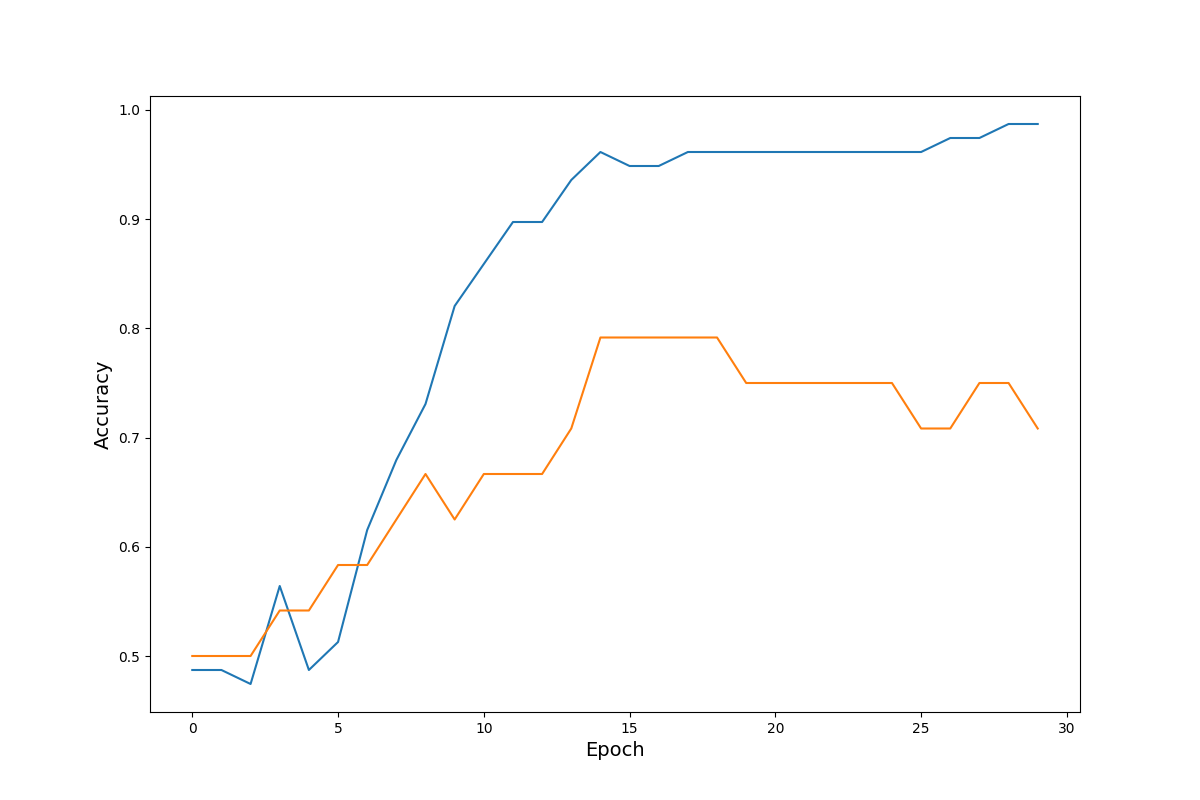
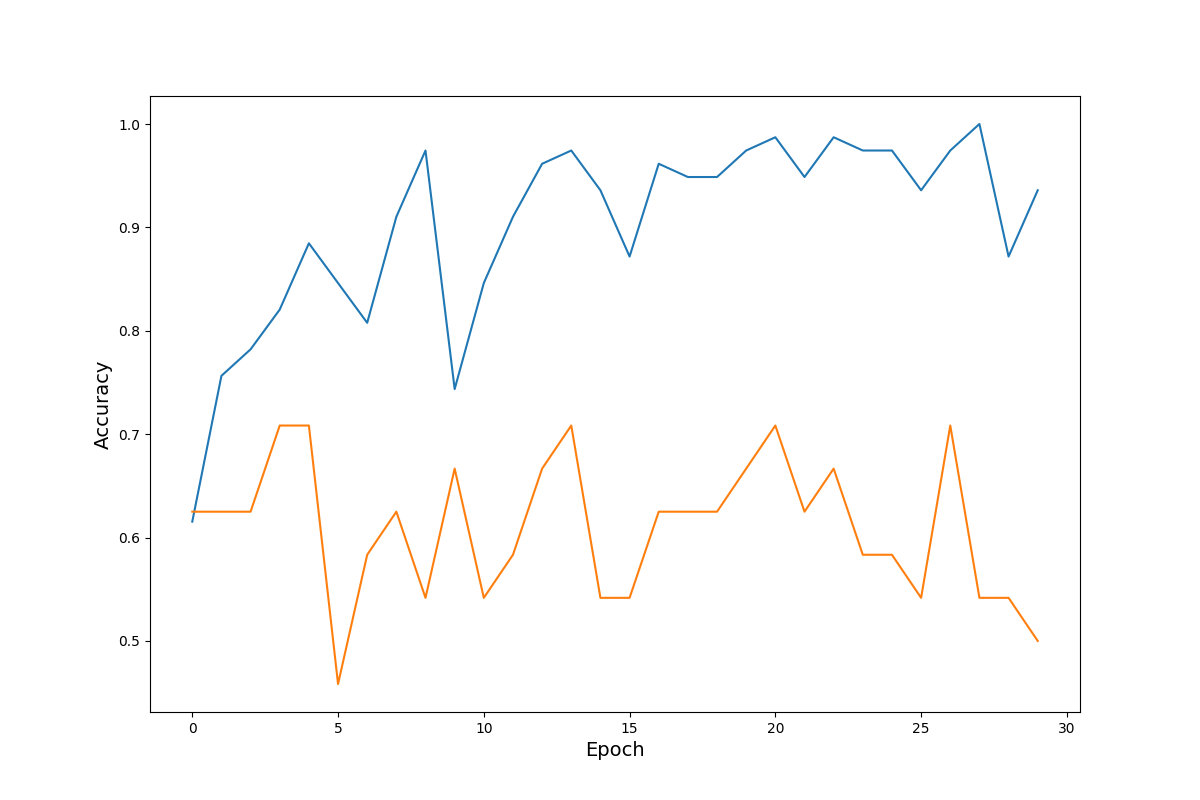
update

diff --git a/train.py b/train.py
@@ -310,33 +310,25 @@ def train_simple_comparison_model():
             if batch_sample == 0:
                 curr_batch_x_av45 = sample[1].numpy().reshape((2, SLICES, 128, 128, 1))[0].reshape((1, SLICES, 128, 128, 1))
                 curr_batch_x_fdg = sample[1].numpy().reshape((2, SLICES, 128, 128, 1))[1].reshape((1, SLICES, 128, 128, 1))
-                cn_data_av45 = cn_reference_av45
-                cn_data_fdg = cn_reference_fdg
-                ad_data_av45 = ad_reference_av45
-                ad_data_fdg = ad_reference_fdg
                 curr_batch_y = sample[0].numpy().reshape((1, 1))
                 batch_sample += 1
             elif batch_sample % BATCH_SIZE == 0:
                 print(curr_batch_y)
-                print(model.predict((ad_data_av45, ad_data_fdg, curr_batch_x_av45, curr_batch_x_fdg, cn_data_av45, cn_data_fdg))[6])
-                loss_value, grads = compute_simple_comparison_gradients(model, [ad_data_av45, ad_data_fdg, curr_batch_x_av45, curr_batch_x_fdg, cn_data_av45, cn_data_fdg], curr_batch_y, 0.3, 0.7)
+                print(model.predict((curr_batch_x_av45, curr_batch_x_fdg))[2])
+                loss_value, grads = compute_simple_comparison_gradients(model, [curr_batch_x_av45, curr_batch_x_fdg], curr_batch_y, 0.3, 0.7)
                 epoch_loss_avg.update_state(loss_value)
-                accuracy.update_state(curr_batch_y, model.predict((ad_data_av45, ad_data_fdg, curr_batch_x_av45, curr_batch_x_fdg, cn_data_av45, cn_data_fdg))[6])
+                accuracy.update_state(curr_batch_y, model.predict((curr_batch_x_av45, curr_batch_x_fdg))[2])
                 optimizer.apply_gradients(zip(grads, model.trainable_variables))
                 print("Accuracy: " + str(accuracy.result().numpy()))
                 batch_sample = 0
             else:
                 curr_batch_x_av45 = np.concatenate((curr_batch_x_av45, sample[1].numpy().reshape((2, SLICES, 128, 128, 1))[0].reshape((1, SLICES, 128, 128, 1))))
                 curr_batch_x_fdg = np.concatenate((curr_batch_x_fdg, sample[1].numpy().reshape((2, SLICES, 128, 128, 1))[1].reshape((1, SLICES, 128, 128, 1))))
-                ad_data_av45 = np.concatenate((ad_data_av45, (ad_reference_av45)))
-                ad_data_fdg = np.concatenate((ad_data_fdg, (ad_reference_fdg)))
-                cn_data_av45 = np.concatenate((cn_data_av45, (cn_reference_av45)))
-                cn_data_fdg = np.concatenate((cn_data_fdg, (cn_reference_fdg)))
                 curr_batch_y = np.concatenate((curr_batch_y, sample[0].numpy().reshape((1, 1))))
                 batch_sample += 1
             if saved == False:
                 save_image_input = sample[1].numpy().reshape((2, SLICES, 128, 128, 1))
-                plot3d(cn_data_av45[0], "3d/input.nii.gz")
+                plot3d(curr_batch_x_av45[0], "3d/input.nii.gz")
                 saved = True
         
         batch_sample = 0
@@ -347,7 +339,7 @@ def train_simple_comparison_model():
         correct_having = 0
         correct_not_having = 0
         for sample in tqdm(dataset_test):
-            curr_output = model.predict((ad_reference_av45, ad_reference_fdg, sample[1].numpy().reshape((2, SLICES, 128, 128, 1))[0].reshape((1, SLICES, 128, 128, 1)), sample[1].numpy().reshape((2, SLICES, 128, 128, 1))[1].reshape((1, SLICES, 128, 128, 1)), cn_reference_av45, cn_reference_fdg))[6][0][0]
+            curr_output = model.predict((sample[1].numpy().reshape((2, SLICES, 128, 128, 1))[0].reshape((1, SLICES, 128, 128, 1)), sample[1].numpy().reshape((2, SLICES, 128, 128, 1))[1].reshape((1, SLICES, 128, 128, 1))))[2][0][0]
             #Calculating sensitivity
             if curr_output > 0.5 and sample[0].numpy().reshape((1, 1))[0] == 1:
                 correct_having += 1
@@ -357,36 +349,24 @@ def train_simple_comparison_model():
             if batch_sample == 0:
                 curr_batch_x_av45 = sample[1].numpy().reshape((2, SLICES, 128, 128, 1))[0].reshape((1, SLICES, 128, 128, 1))
                 curr_batch_x_fdg = sample[1].numpy().reshape((2, SLICES, 128, 128, 1))[1].reshape((1, SLICES, 128, 128, 1))
-                cn_data_av45 = cn_reference_av45
-                cn_data_fdg = cn_reference_fdg
-                ad_data_av45 = ad_reference_av45
-                ad_data_fdg = ad_reference_fdg
                 curr_batch_y = sample[0].numpy().reshape((1, 1))
                 batch_sample += 1
             else:
                 curr_batch_x_av45 = np.concatenate((curr_batch_x_av45, sample[1].numpy().reshape((2, SLICES, 128, 128, 1))[0].reshape((1, SLICES, 128, 128, 1))))
                 curr_batch_x_fdg = np.concatenate((curr_batch_x_fdg, sample[1].numpy().reshape((2, SLICES, 128, 128, 1))[1].reshape((1, SLICES, 128, 128, 1))))
-                ad_data_av45 = np.concatenate((ad_data_av45, (ad_reference_av45)))
-                ad_data_fdg = np.concatenate((ad_data_fdg, (ad_reference_fdg)))
-                cn_data_av45 = np.concatenate((cn_data_av45, (cn_reference_av45)))
-                cn_data_fdg = np.concatenate((cn_data_fdg, (cn_reference_fdg)))
                 curr_batch_y = np.concatenate((curr_batch_y, sample[0].numpy().reshape((1, 1))))
                 batch_sample += 1
             if batch_sample == BATCH_SIZE:
                 print(curr_batch_y)
-                print(model.predict((ad_data_av45, ad_data_fdg, curr_batch_x_av45, curr_batch_x_fdg, cn_data_av45, cn_data_fdg))[6])
-                test_loss_value, grads = compute_simple_comparison_gradients(model, (ad_data_av45, ad_data_fdg, curr_batch_x_av45, curr_batch_x_fdg, cn_data_av45, cn_data_fdg), curr_batch_y, 0.3, 0.7)
+                print(model.predict((curr_batch_x_av45, curr_batch_x_fdg))[2])
+                test_loss_value, grads = compute_simple_comparison_gradients(model, (curr_batch_x_av45, curr_batch_x_fdg), curr_batch_y, 0.3, 0.7)
                 test_loss_avg.update_state(test_loss_value)
-                test_accuracy.update_state(curr_batch_y, model.predict((ad_data_av45, ad_data_fdg, curr_batch_x_av45, curr_batch_x_fdg, cn_data_av45, cn_data_fdg))[6])
+                test_accuracy.update_state(curr_batch_y, model.predict((curr_batch_x_av45, curr_batch_x_fdg))[2])
                 batch_sample = 0
         
         if epoch % 2 == 0:
-            plot3d(np.array(model.predict((ad_data_av45[0].reshape((1, SLICES, 128, 128, 1)), \
-                ad_data_fdg[0].reshape((1, SLICES, 128, 128, 1)), \
-                save_image_input.reshape((2, SLICES, 128, 128, 1))[0].reshape((1, SLICES, 128, 128, 1)), \
-                save_image_input.reshape((2, SLICES, 128, 128, 1))[1].reshape((1, SLICES, 128, 128, 1)), \
-                cn_data_av45[0].reshape((1, SLICES, 128, 128, 1)), \
-                cn_data_fdg[0].reshape((1, SLICES, 128, 128, 1))))[0]).reshape((SLICES, 128, 128)), "3d/output" + str(epoch) + ".nii.gz")
+            plot3d(np.array(model.predict((save_image_input.reshape((2, SLICES, 128, 128, 1))[0].reshape((1, SLICES, 128, 128, 1)), \
+                save_image_input.reshape((2, SLICES, 128, 128, 1))[1].reshape((1, SLICES, 128, 128, 1))))[0]).reshape((SLICES, 128, 128)), "3d/output" + str(epoch) + ".nii.gz")
 
             model.save('saved_model/my_model')
             print("Saved")

diff --git a/model.py b/model.py
@@ -3,7 +3,7 @@ import numpy as np
 import tensorflow.keras.backend as K
 from keras.utils.generic_utils import get_custom_objects
 
-l2 = tf.keras.regularizers.L2(0.2)
+l2 = tf.keras.regularizers.L2(0.1)
 
 
 def down_sample(input_layer, num_filters, kernel_size, padding, max_pool):
@@ -119,20 +119,9 @@ def create_simple_comparison_model(input_dims, num_filters, kernel_size, strides
 
 
 def create_av45_fdg_comparison_model(input_dims, num_filters, kernel_size, padding, max_pool):
-    ad_input_av45 = tf.keras.layers.Input(shape=(96, 128, 128, 1))
     unknown_input_av45 = tf.keras.Input(shape=(96, 128, 128, 1))
-    cn_input_av45 = tf.keras.Input(shape=(96, 128, 128, 1))
 
-    ad_input_fdg = tf.keras.layers.Input(shape=(96, 128, 128, 1))
     unknown_input_fdg = tf.keras.Input(shape=(96, 128, 128, 1))
-    cn_input_fdg = tf.keras.Input(shape=(96, 128, 128, 1))
-
-    #AD
-    encoder_ad_av45 = create_encoder(ad_input_av45, num_filters, kernel_size, padding, max_pool)
-    decoder_ad_av45 = create_decoder(encoder_ad_av45, num_filters, kernel_size, padding, max_pool)
-
-    encoder_ad_fdg = create_encoder(ad_input_fdg, num_filters, kernel_size, padding, max_pool)
-    decoder_ad_fdg = create_decoder(encoder_ad_fdg, num_filters, kernel_size, padding, max_pool)
 
     #Unknown
     encoder_unknown_av45 = create_encoder(unknown_input_av45, num_filters, kernel_size, padding, max_pool)
@@ -141,30 +130,12 @@ def create_av45_fdg_comparison_model(input_dims, num_filters, kernel_size, paddi
     encoder_unknown_fdg = create_encoder(unknown_input_fdg, num_filters, kernel_size, padding, max_pool)
     decoder_unknown_fdg = create_decoder(encoder_unknown_fdg, num_filters, kernel_size, padding, max_pool)
 
-    #CN
-    encoder_cn_av45 = create_encoder(cn_input_av45, num_filters, kernel_size, padding, max_pool)
-    decoder_cn_av45 = create_decoder(encoder_cn_av45, num_filters, kernel_size, padding, max_pool)
+    flatten_av45 = tf.keras.layers.Flatten(activity_regularizer=l2)(encoder_unknown_av45)
 
-    encoder_cn_fdg = create_encoder(cn_input_fdg, num_filters, kernel_size, padding, max_pool)
-    decoder_cn_fdg = create_decoder(encoder_cn_fdg, num_filters, kernel_size, padding, max_pool)
-    
-    #Euclidian distance
-    ad_unknown_av45 = tf.keras.layers.Lambda(euclidean_distance)([encoder_ad_av45, encoder_unknown_av45])
-    cn_unknown_av45 = tf.keras.layers.Lambda(euclidean_distance)([encoder_cn_av45, encoder_unknown_av45])
-
-    ad_unknown_fdg = tf.keras.layers.Lambda(euclidean_distance)([encoder_ad_fdg, encoder_unknown_fdg])
-    cn_unknown_fdg = tf.keras.layers.Lambda(euclidean_distance)([encoder_cn_fdg, encoder_unknown_fdg])
-    
-    final_difference_av45 = tf.keras.layers.Lambda(subtract)([ad_unknown_av45, cn_unknown_av45])
-
-    flatten_av45 = tf.keras.layers.Flatten(activity_regularizer=l2)(final_difference_av45)
-
-    final_difference_fdg = tf.keras.layers.Lambda(subtract)([ad_unknown_fdg, cn_unknown_fdg])
-
-    flatten_fdg = tf.keras.layers.Flatten(activity_regularizer=l2)(final_difference_fdg)
+    flatten_fdg = tf.keras.layers.Flatten(activity_regularizer=l2)(encoder_unknown_fdg)
 
     concacted = tf.keras.layers.concatenate([flatten_av45, flatten_fdg])
 
     final_activation = tf.keras.layers.Dense(1, activation="sigmoid")(concacted)
 
-    return tf.keras.Model(inputs=[ad_input_av45, ad_input_fdg, unknown_input_av45, unknown_input_fdg, cn_input_av45, cn_input_fdg], outputs=[decoder_ad_av45, decoder_ad_fdg, decoder_unknown_av45, decoder_unknown_fdg, decoder_cn_av45, decoder_cn_fdg, final_activation])
+    return tf.keras.Model(inputs=[unknown_input_av45, unknown_input_fdg], outputs=[decoder_unknown_av45, decoder_unknown_fdg, final_activation])

diff --git a/train_utils.py b/train_utils.py
@@ -83,15 +83,11 @@ def autoencoder_loss(model, x, y, training):
 
 def simple_comparison_loss(model, x, y, training, autoencoder_scale, classifier_scale):
     y_ = model(x, training=training)
-    loss_ad_av45 = get_autoencoder_loss_object()(y_true=x[0], y_pred=y_[0])
-    loss_ad_fdg = get_autoencoder_loss_object()(y_true=x[1], y_pred=y_[1])
-    loss_unknown_av45 = get_autoencoder_loss_object()(y_true=x[2], y_pred=y_[2])
-    loss_unknown_fdg = get_autoencoder_loss_object()(y_true=x[3], y_pred=y_[3])
-    loss_cn_av45 = get_autoencoder_loss_object()(y_true=x[4], y_pred=y_[4])
-    loss_cn_fdg = get_autoencoder_loss_object()(y_true=x[5], y_pred=y_[5])
-    loss_classifier = get_simple_comparison_loss_object()(y_true=y, y_pred=y_[6])
+    loss_unknown_av45 = get_autoencoder_loss_object()(y_true=x[0], y_pred=y_[0])
+    loss_unknown_fdg = get_autoencoder_loss_object()(y_true=x[1], y_pred=y_[1])
+    loss_classifier = get_simple_comparison_loss_object()(y_true=y, y_pred=y_[2])
     
-    return loss_ad_av45*autoencoder_scale + loss_ad_fdg*autoencoder_scale + loss_unknown_av45*autoencoder_scale + loss_unknown_fdg*autoencoder_scale + loss_cn_av45*autoencoder_scale + loss_cn_fdg*autoencoder_scale + loss_classifier*classifier_scale
+    return loss_unknown_av45*autoencoder_scale + loss_unknown_fdg*autoencoder_scale + loss_classifier*classifier_scale
 
 
 def simple_classifier_loss(model, x, y, training, autoencoder_scaling, classifier_scaling):
